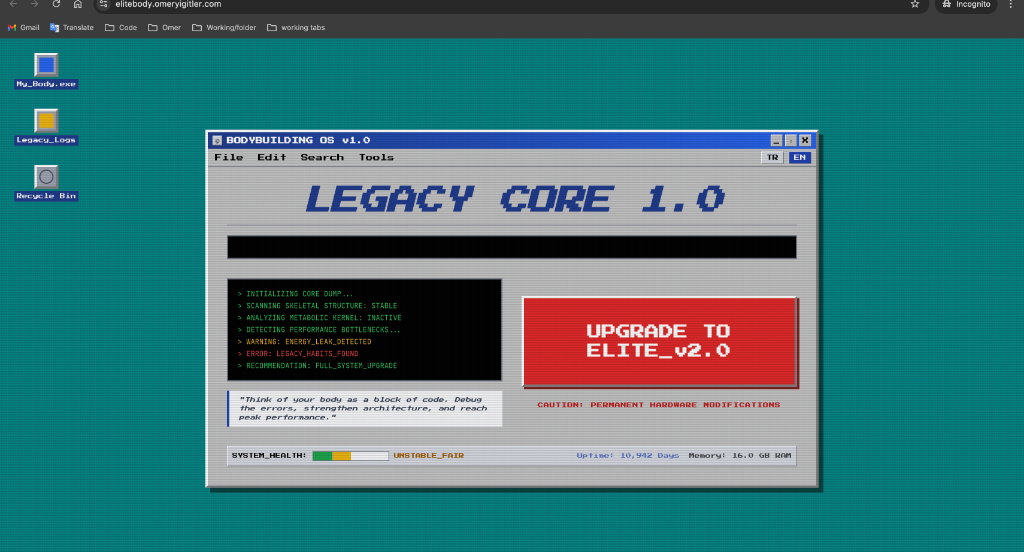
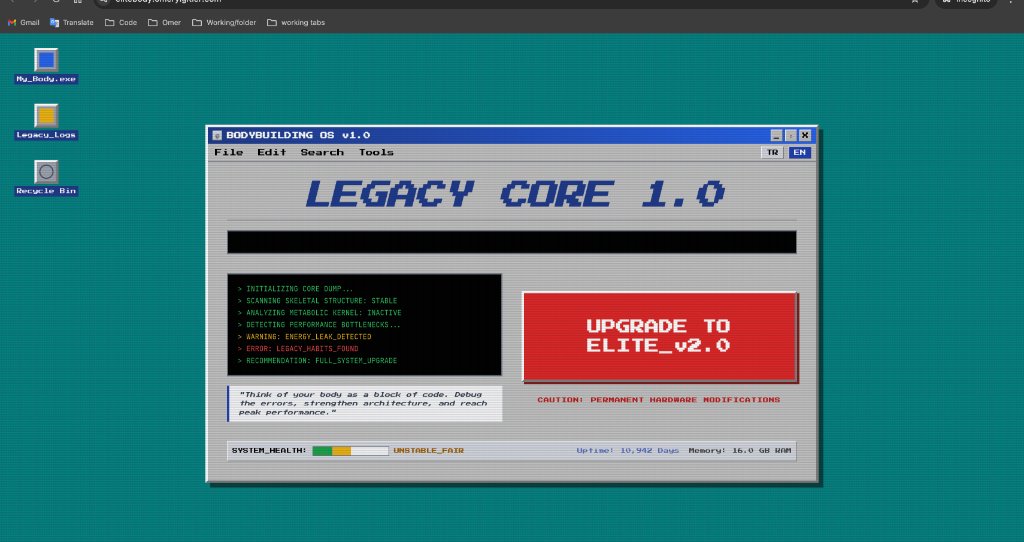
fix: Physical crop of Elite Body assets, unified frames, and Start button visibility

diff --git a/projects.html b/projects.html
@@ -190,8 +190,8 @@
                                 </div>
                                 <div
                                     class="flex-1 bg-[#008080] relative flex items-center justify-center overflow-hidden">
-                                    <img src="assets/elite-retro.png" alt="Elite Body Retro UI (V1)"
-                                        class="w-full h-full object-cover object-[0%_100%]">
+                                    <img src="assets/elite-retro.png?v=V10" alt="Elite Body Retro UI (V1)"
+                                        class="w-full h-full object-cover object-[0%_0%]">
                                 </div>
                             </div>
 
@@ -206,8 +206,8 @@
                                 </div>
                                 <div
                                     class="flex-1 bg-gray-900 relative flex items-center justify-center overflow-hidden">
-                                    <img src="assets/elite-modern.png" alt="Elite Body Modern UI (V2)"
-                                        class="w-full h-full object-cover object-[0%_100%]">
+                                    <img src="assets/elite-modern.png?v=V10" alt="Elite Body Modern UI (V2)"
+                                        class="w-full h-full object-cover object-[0%_0%]">
                                 </div>
                             </div>
 
